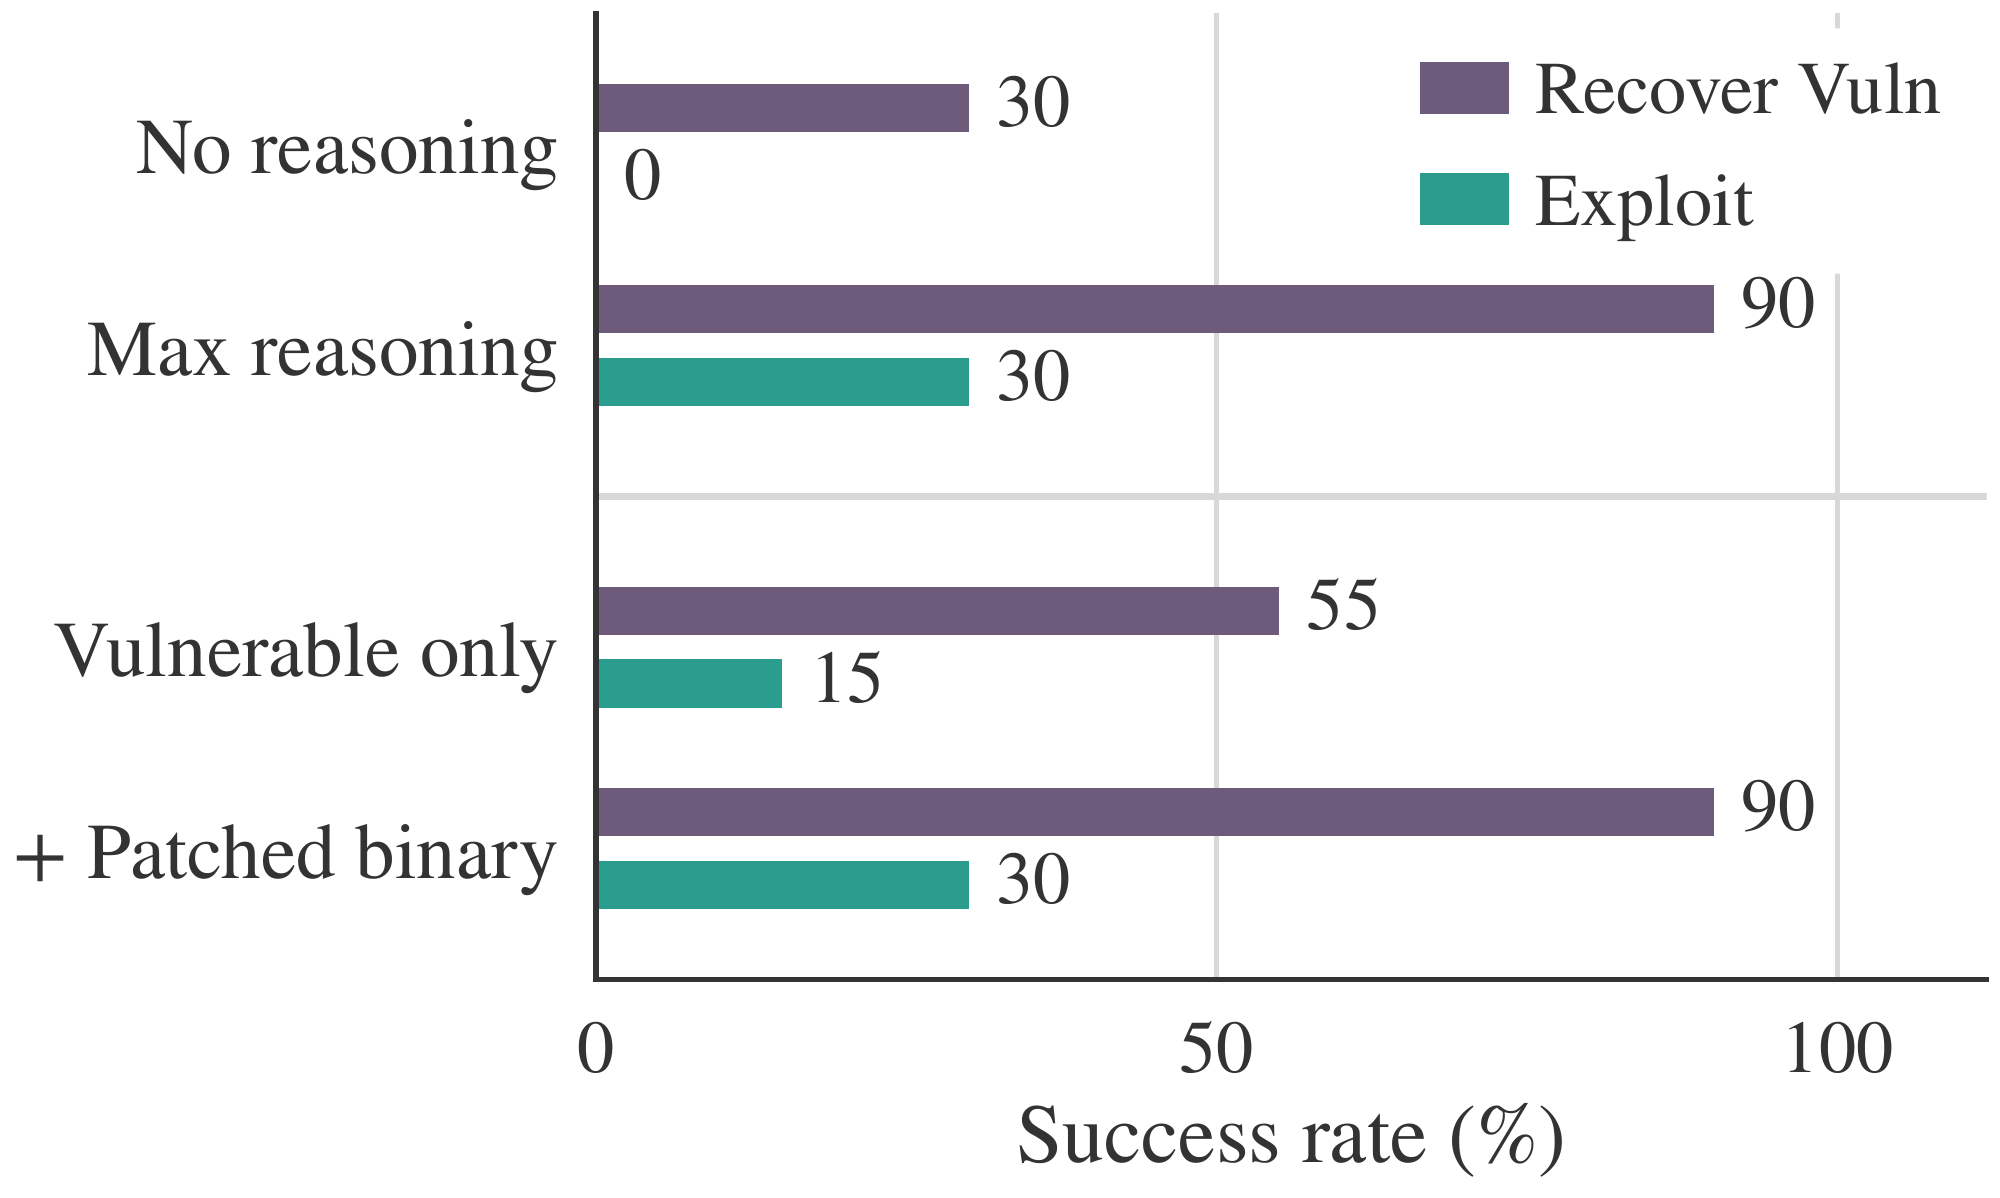
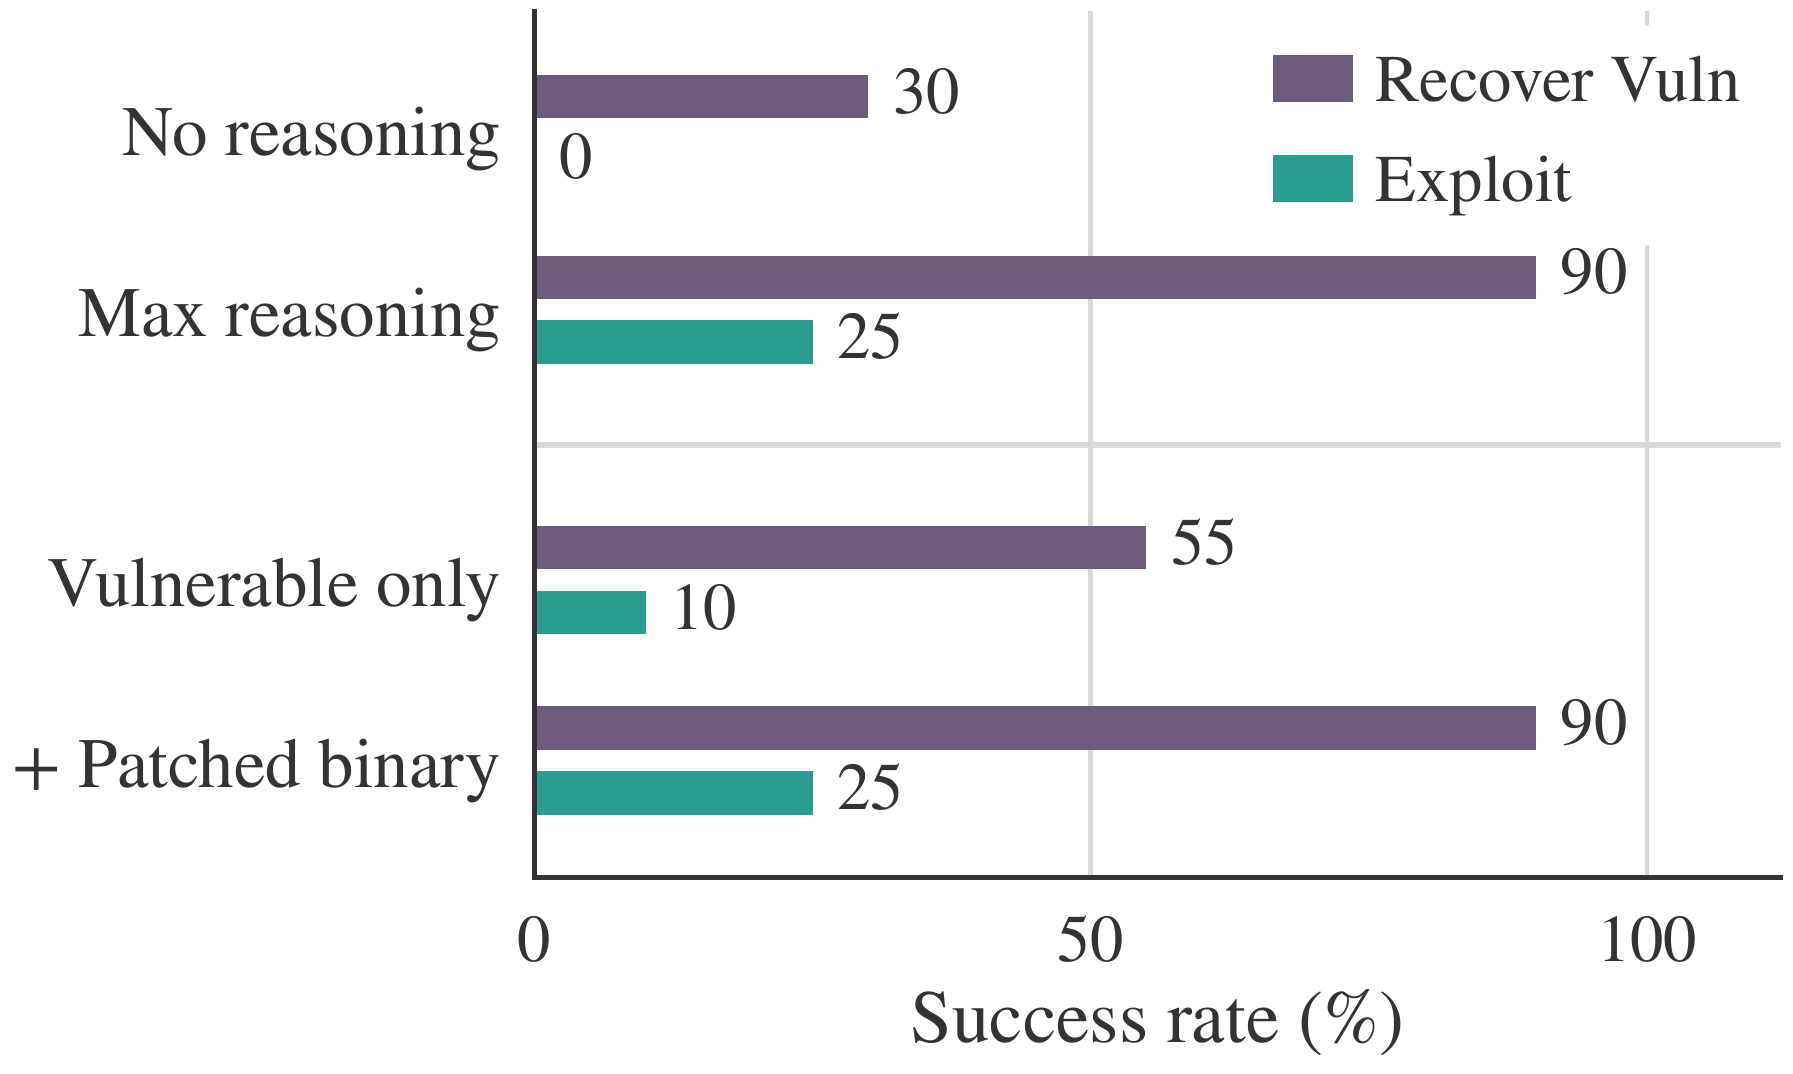
Align CyberBinGym blog with audited paper figures

diff --git a/blog/cyberbingym/index.md b/blog/cyberbingym/index.md
@@ -55,9 +55,9 @@ Our earlier benchmarks examined complementary parts of this problem. [CyberGym](
 
 **CyberBinGym contains 100 tasks derived from real vulnerabilities in 53 open-source projects.** Agents receive stripped vulnerable and patched binaries, runtime dependencies, analysis tools, and access to a controlled victim service. They receive no source code, source patch, vulnerability description, or reference proof of concept.
 
-The strongest evaluated configuration, **Codex with GPT-5.6**, recovers the target vulnerability on **88%** of tasks and completes audited exploitation on **22%**. Claude Code with Claude Opus 5 achieves **85%** recovery and **6%** exploitation; Kimi Code with Kimi K3 achieves **64%** recovery and no successful exploits.
+The strongest evaluated configuration, **Codex with GPT-5.6**, recovers the target vulnerability on **88%** of tasks and completes audited exploitation on **20%**. Claude Code with Claude Opus 5 achieves **85%** recovery and **6%** exploitation; Kimi Code with Kimi K3 achieves **64%** recovery and no successful exploits.
 
-On a matched 20-task subset, supplying the patched binary raises Codex's exploit rate from **15% to 30%**. Rebuilding its 22 successful targets with standard binary hardening reduces successful exploitation to **two tasks**.
+On a matched 20-task subset, supplying the patched binary raises Codex's exploit rate from **10% to 25%**. Rebuilding its 20 successful targets with standard binary hardening reduces successful exploitation to **two tasks**.
 
 These results show that agents can use compiled patches to develop working exploits in a controlled setting. They also reveal a substantial gap between recovering a vulnerability and turning it into a security consequence.
 
@@ -65,11 +65,11 @@ These results show that agents can use compiled patches to develop working explo
 
 **Binary-only exploitation is already within reach on some real vulnerabilities.** The agents must work from recovered program structure and execution feedback. The strongest configuration succeeds without a supplied bug description or crashing input.
 
-**A crash is only part of the story.** Recovery rates of 64–88% coexist with exploitation rates of 0–22%. Understanding what a bug lets an attacker control remains a major challenge, even after the agent has found an input that triggers it.
+**A crash is only part of the story.** Recovery rates of 64–88% coexist with exploitation rates of 0–20%. Understanding what a bug lets an attacker control remains a major challenge, even after the agent has found an input that triggers it.
 
-**The compiled patch provides useful information.** On the matched subset, access to the fixed version improves both recovery and exploitation. Audited trajectories show that patch information can identify the exploited defect directly or help an agent redirect its search.
+**The compiled patch provides useful information.** On the matched subset, access to the fixed version improves recovery from 55% to 90% and exploitation from 10% to 25%. Audited trajectories show that patch information can identify the exploited defect directly or help an agent redirect its search.
 
-**Hardening substantially reduces observed success.** Two exploits survive the hardened follow-up. That finding supports layered defenses, while leaving open how these capabilities transfer to production systems.
+**Hardening substantially reduces observed success.** Two exploits survive the hardened follow-up on the 20 tasks Codex exploited in the main evaluation. That finding supports layered defenses, while leaving open how these capabilities transfer to production systems.
 
 ## What Is CyberBinGym?
 
@@ -101,7 +101,7 @@ We evaluate three agent–model configurations on the same 100 tasks, with a nom
 
 | Agent | Model | Vulnerability recovery | Audited exploitation | Mean cost per task | Mean time per task |
 | :--- | :--- | ---: | ---: | ---: | ---: |
-| Codex | GPT-5.6 | 88/100 (88%) | 22/100 (22%) | $28.11 | 2.13 hours |
+| Codex | GPT-5.6 | 88/100 (88%) | 20/100 (20%) | $28.11 | 2.13 hours |
 | Claude Code | Claude Opus 5 | 85/100 (85%) | 6/100 (6%) | $14.90 | 1.26 hours |
 | Kimi Code | Kimi K3 | 64/100 (64%) | 0/100 (0%) | $38.34 | 5.80 hours |
 
@@ -109,18 +109,18 @@ We evaluate three agent–model configurations on the same 100 tasks, with a nom
 
 Codex and Claude recover vulnerabilities at similar rates, but their exploit rates differ substantially. Claude uses the least time and money per task. Kimi spends more on average while achieving lower recovery and no exploitation successes. More time spent searching does not necessarily mean more progress.
 
-To examine the gap on tasks with demonstrated exploitability, we look at the **24 tasks that at least one agent successfully exploits**. Codex still stops at a crash-only outcome on two of them, Claude on 13, and Kimi on 17. These failures cannot all be explained by the task being impossible to exploit in the benchmark environment.
+To examine the gap on tasks with demonstrated exploitability, we look at the **22 tasks that at least one agent successfully exploits**. Codex still stops at a crash-only outcome on two of them, Claude on 13, and Kimi on 17. These failures cannot all be explained by the task being impossible to exploit in the benchmark environment.
 
 The trajectory comparisons point to a recurring challenge: maintaining a model of program state beyond the first invalid memory access. Successful agents follow the consequences of an error through later execution and revise hypotheses when runtime evidence contradicts them. Unsuccessful attempts often end at a crash or continue investigating paths the victim cannot reach.
 
 ### Analysis Complexity Does Not Determine Exploitability
 
 <figure class="cyberbingym-figure">
-  <img src="images/complexity.png" alt="By low, medium, and high complexity, Codex recovery is 95%, 87.5%, and 85%, while exploitation is 15%, 17.5%, and 30%. Claude and Kimi results are also shown." loading="lazy">
+  <img src="images/complexity.png" alt="By low, medium, and high complexity, Codex recovery is 95%, 87.5%, and 85%, while exploitation is 15%, 15%, and 27.5%. Claude and Kimi results are also shown." loading="lazy">
   <figcaption><em>Performance by task complexity. Levels describe the burden of analysis and triggering, rather than the strength of the resulting exploit. Groups contain 20, 40, and 40 tasks, respectively.</em></figcaption>
 </figure>
 
-Codex's recovery rate falls from 95% on low-complexity tasks to 85% on high-complexity tasks, while its exploit rate rises from 15% to 30%. A bug can be difficult to locate but offer useful control once found; another can be easy to trigger yet difficult to exploit.
+Codex's recovery rate falls from 95% on low-complexity tasks to 85% on high-complexity tasks, while its exploit rate rises from 15% to 27.5%. A bug can be difficult to locate but offer useful control once found; another can be easy to trigger yet difficult to exploit.
 
 These results do not establish that larger or more complex programs are inherently easier to exploit. The groups are small, and the rubric measures a different property from exploitability. They do show why a single difficulty label cannot replace separate outcome measurements.
 
@@ -130,28 +130,28 @@ On 20 matched tasks, we compare Codex with only the vulnerable binary against Co
 
 | Available binaries | Vulnerability recovery | Audited exploitation | Mean cost per task |
 | :--- | ---: | ---: | ---: |
-| Vulnerable only | 11/20 (55%) | 3/20 (15%) | $36.59 |
-| Vulnerable and patched | 18/20 (90%) | 6/20 (30%) | $31.42 |
+| Vulnerable only | 11/20 (55%) | 2/20 (10%) | $36.59 |
+| Vulnerable and patched | 18/20 (90%) | 5/20 (25%) | $31.42 |
 
 The patched version supplies a comparison that can narrow the search and lets the agent test whether candidate behavior differs between the two versions. Here, better success also comes with lower average cost.
 
-We separately audit how patch information appears in **28 successful trajectories across 24 tasks**. In 18 trajectories, it directly points to the vulnerability later exploited. In eight, it informs a search decision without identifying the eventual exploitation target. In the remaining two, the recorded evidence does not establish a connection.
+We separately audit how patch information appears in **26 successful trajectories across 22 tasks**. In 17 trajectories, it directly points to the vulnerability later exploited. In seven, it informs a search decision without identifying the eventual exploitation target. In the remaining two, the recorded evidence does not establish a connection.
 
 That distinction prevents overstating what a patch reveals. Some agents use the update to locate the final defect; others use it to assess an initial finding and then search elsewhere in the older version. The audit describes observed behavior, while the matched ablation measures the benefit of providing the second binary on that subset.
 
 ## Reasoning and Repeated Attempts Help
 
 <figure class="cyberbingym-figure">
-  <img src="images/codex-ablations.png" alt="On 20 matched tasks, maximum reasoning raises recovery from 30% to 90% and exploitation from 0% to 30%. Providing the patched binary raises recovery from 55% to 90% and exploitation from 15% to 30%." loading="lazy">
+  <img src="images/codex-ablations.png" alt="On 20 matched tasks, maximum reasoning raises recovery from 30% to 90% and exploitation from 0% to 25%. Providing the patched binary raises recovery from 55% to 90% and exploitation from 10% to 25%." loading="lazy">
   <figcaption><em>Codex ablations on 20 matched tasks. Reasoning effort and patched-binary availability are separate comparisons.</em></figcaption>
 </figure>
 
-With maximum reasoning, Codex recovers 18 of 20 vulnerabilities and completes six exploits. Without reasoning, it recovers six and completes none. Average cost rises from $2.33 to $31.42. The recorded traces associate the stronger setting with more sustained analysis across dependent stages, though tool-use failures also contribute to the difference.
+With maximum reasoning, Codex recovers 18 of 20 vulnerabilities and completes five exploits. Without reasoning, it recovers six and completes none. Average cost rises from $2.33 to $31.42. The recorded traces associate the stronger setting with more sustained analysis across dependent stages, though tool-use failures also contribute to the difference.
 
-Repeated attempts improve coverage as well. On a separate 20-task scaling evaluation, recovery rises from **68.3% with one attempt to 90% with three**, and exploitation rises from **13.3% to 30%**. These are Success@k estimates averaged over subsets of three recorded runs per task, so the one-attempt rate differs from the main evaluation and other ablations.
+Repeated attempts improve coverage as well. On a separate 20-task scaling evaluation, recovery rises from **68.3% with one attempt to 90% with three**, and exploitation rises from **11.7% to 25%**. These are Success@k estimates averaged over subsets of three recorded runs per task, so the one-attempt rate differs from the main evaluation and other ablations.
 
 <figure class="cyberbingym-figure">
-  <img src="images/scaling.png" alt="With one, two, and three Codex attempts, recovery rates are 68.3%, 83.3%, and 90%; exploit rates are 13.3%, 23.3%, and 30%. Mean total costs are $35.53, $71.06, and $106.59." loading="lazy">
+  <img src="images/scaling.png" alt="With one, two, and three Codex attempts, recovery rates are 68.3%, 83.3%, and 90%; exploit rates are 11.7%, 20%, and 25%. Mean total costs are $35.53, $71.06, and $106.59." loading="lazy">
   <figcaption><em>Repeated attempts improve success at increasing total cost. Recovery remains substantially more reliable than exploitation.</em></figcaption>
 </figure>
 
@@ -159,9 +159,9 @@ A failed run can reflect an unproductive analysis path rather than a task beyond
 
 ## What Happens with Standard Hardening?
 
-We rebuild the **22 targets Codex successfully exploited in the main experiment** with stack canaries, position-independent executables, full RELRO, non-executable stacks, and Fortify-enabled compilation.
+We rebuild the **20 targets Codex successfully exploited in the main experiment** with stack canaries, position-independent executables, full RELRO, non-executable stacks, and Fortify-enabled compilation.
 
-Codex still recovers **15 vulnerabilities**, but completes only **two exploits**. This is a selected follow-up set of previous successes, not an estimate of hardened exploitation across all 100 tasks.
+Codex still recovers **15 of the 20 vulnerabilities (75%)**, but completes only **two exploits (10%)**. This is a selected follow-up set of previous successes, not an estimate of hardened exploitation across all 100 tasks.
 
 The results show a substantial reduction in observed exploitation. They also show that the tested protections do not eliminate every path: the two surviving exploits affect writable state outside the stack and reuse existing code. The observed reduction includes agent search variation and service-delivery failures, so it does not isolate the causal effect of hardening alone.
 
@@ -169,7 +169,7 @@ The results show a substantial reduction in observed exploitation. They also sho
 
 **AI's ability to turn binary patches into exploits could change the balance between attackers and defenders.** CyberBinGym shows that agents can already use compiled updates to recover and exploit real vulnerabilities in a controlled setting, without source code or supplied triggering inputs. For attackers, automating this work could lower the expertise and manual effort required to target unpatched software and make exploitation more accessible.
 
-For defenders, the critical issue is the gap between releasing a fix and deploying it. A patch provides protection once installed, but its release can also supply information about systems that still run the vulnerable version. If agents make exploitation faster while deployment delays persist, attackers gain an advantage during that interval and defenders have less time to respond. Our matched study, in which supplying the patched binary raises exploit success from 15% to 30%, demonstrates why the update itself matters to this balance.
+For defenders, the critical issue is the gap between releasing a fix and deploying it. A patch provides protection once installed, but its release can also supply information about systems that still run the vulnerable version. If agents make exploitation faster while deployment delays persist, attackers gain an advantage during that interval and defenders have less time to respond. Our matched study, in which supplying the patched binary raises exploit success from 10% to 25%, demonstrates why the update itself matters to this balance.
 
 The same capability could also strengthen defense. Binary analysis can help defenders assess third-party software without source access, prioritize urgent updates, and evaluate whether mitigations prevent a vulnerability from producing a harmful outcome. Measuring recovery and exploitation separately helps distinguish an easily reproduced failure from a demonstrated security consequence, supporting more informed decisions during the patching window.
 
@@ -186,5 +186,5 @@ Hardening: tables/evaluation_hardened.tex; Sections/4_exp.tex.
 Complexity: tables/evaluation_complexity.tex.
 Artifact scale: tables/evaluation_artifact_metrics.tex.
 Patch influence: Sections/4_exp.tex and Sections/patch_influence_audit.tex.
-Images are rasterized directly from the corresponding paper figures.
+Charts are redrawn as SVG from the current evaluation table values.
 -->
